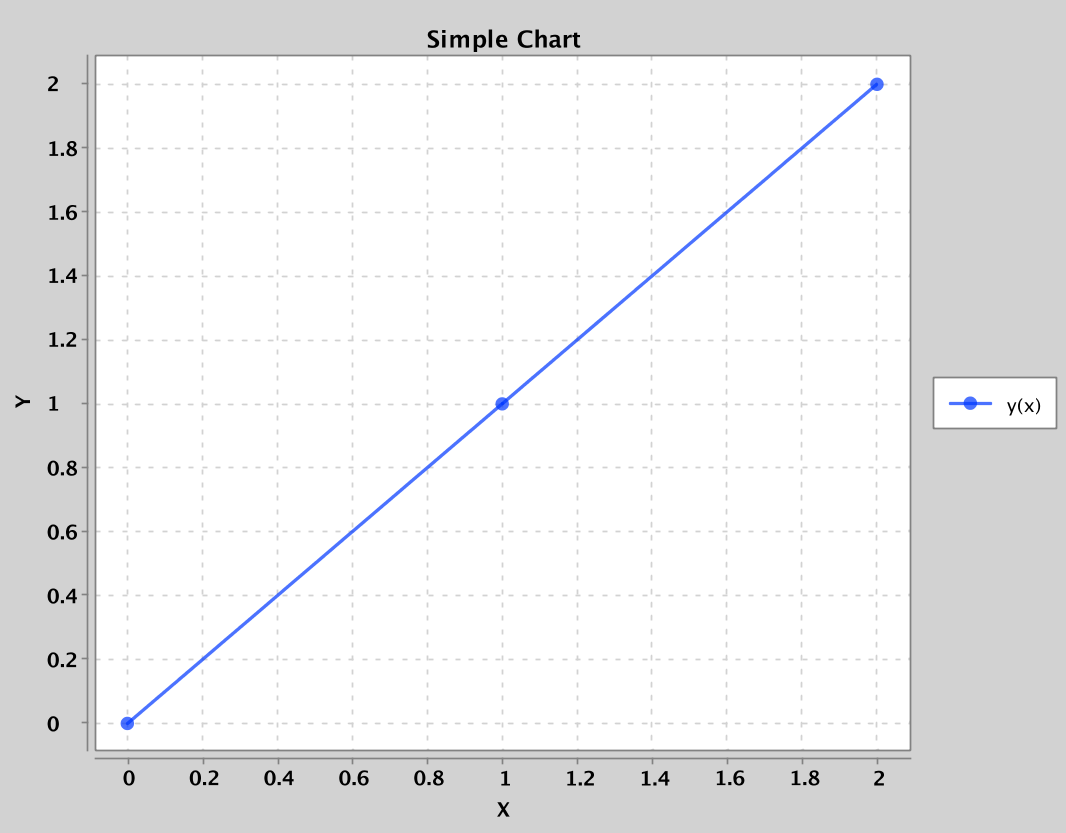
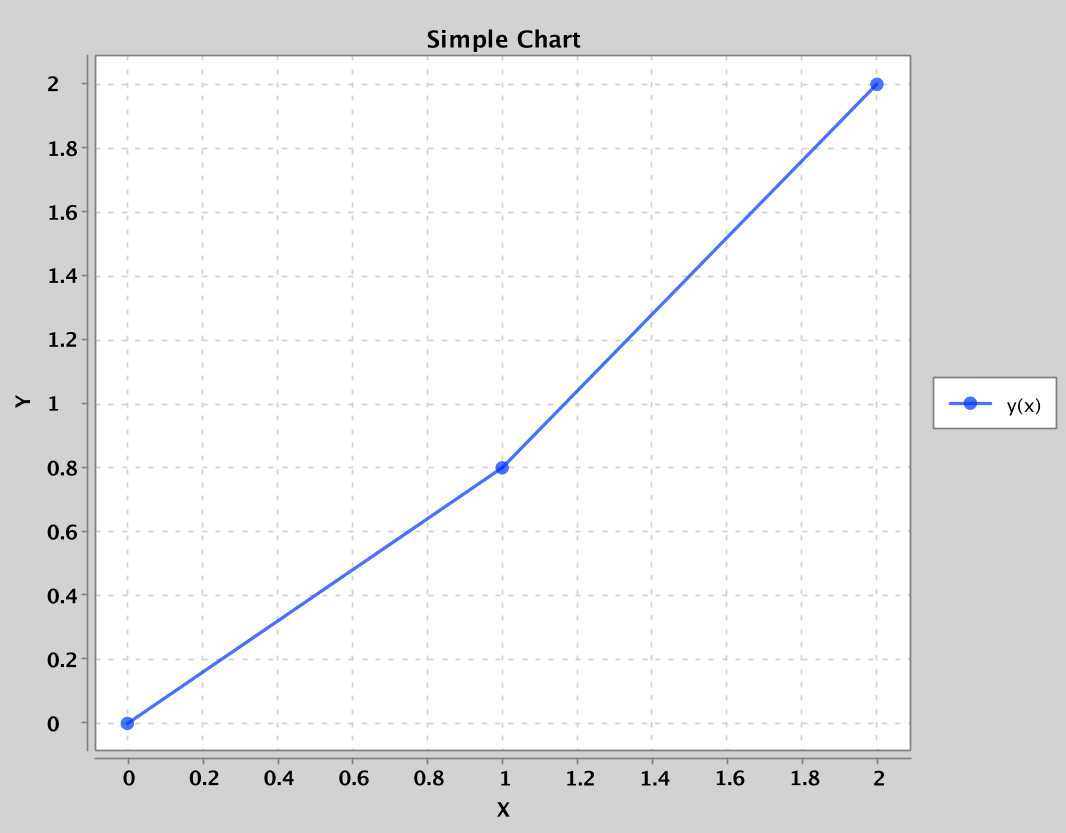
updated README

diff --git a/README.md b/README.md
@@ -434,11 +434,11 @@ Venice provides a simple protocol facility.
    (xchart/write-to-file
       (xchart/xy-chart
          { "y(x)" { :x [0.0 1.0 2.0]
-                    :y [0.0 1.0 2.0] } }
+                    :y [0.0 0.8 2.0] } }
 
          { :title "Simple Chart"
-           :x-axis { :title "X" }
-           :y-axis { :title "Y" }
+           :x-axis { :title "X" :decimal-pattern "0#.#"}
+           :y-axis { :title "Y" :decimal-pattern "0#.#"}
            :theme :xchart } )
       :png ;; write as PNG
       120  ;; render with 120 dpi
